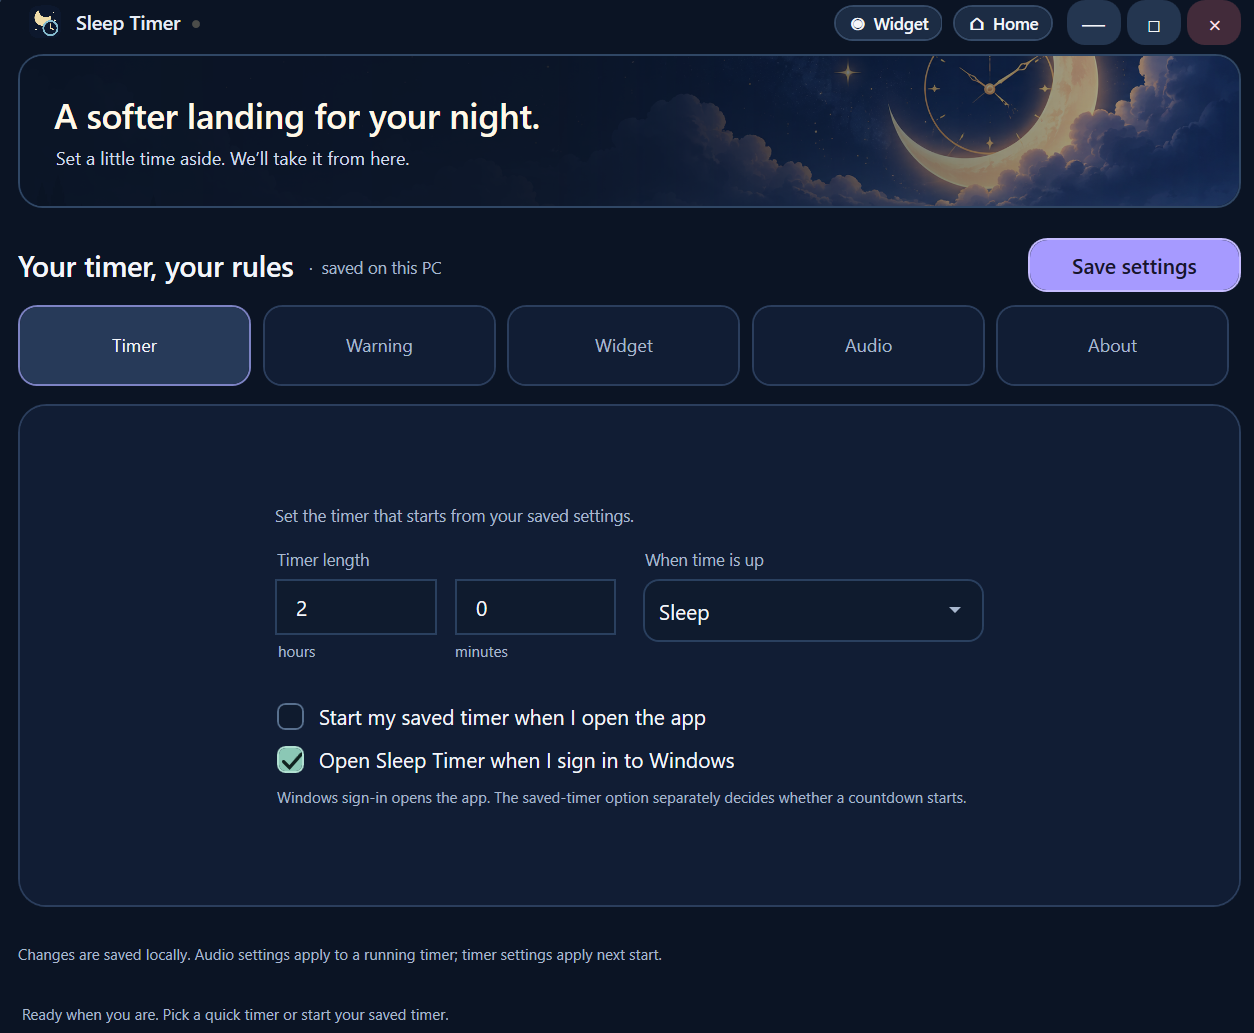
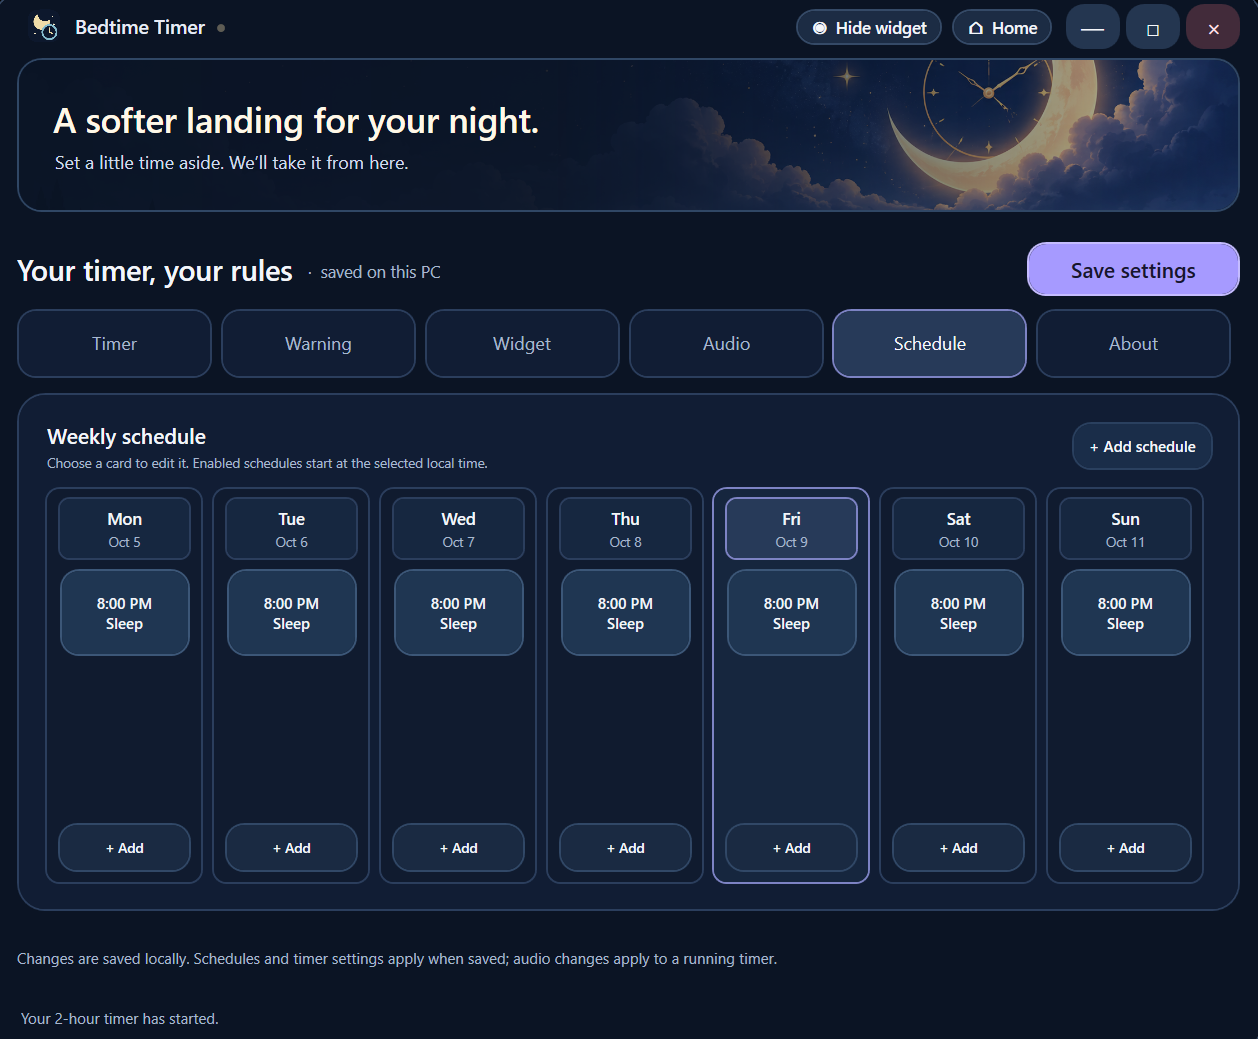
Rebrand app as Bedtime Timer

diff --git a/src/SleepTimer.App/MainWindow.xaml b/src/SleepTimer.App/MainWindow.xaml
@@ -2,7 +2,7 @@
         xmlns="http://schemas.microsoft.com/winfx/2006/xaml/presentation"
         xmlns:x="http://schemas.microsoft.com/winfx/2006/xaml"
         xmlns:shell="clr-namespace:System.Windows.Shell;assembly=PresentationFramework"
-        Title="Sleep Timer" Width="860" Height="720" MinWidth="760" MinHeight="640"
+        Title="Bedtime Timer" Width="860" Height="720" MinWidth="760" MinHeight="640"
         WindowStyle="None" ResizeMode="CanResize" Background="Transparent" Foreground="{StaticResource BrightText}"
         FontFamily="Segoe UI" WindowStartupLocation="CenterScreen" UseLayoutRounding="True"
         Closing="Window_Closing" StateChanged="Window_StateChanged">
@@ -112,7 +112,7 @@
                 </Grid.ColumnDefinitions>
                 <StackPanel Orientation="Horizontal" VerticalAlignment="Center" Margin="7,0,0,0">
                     <Image Source="/SleepTimer;component/Assets/sleep-timer.png" Width="23" Height="23" />
-                    <TextBlock Text="Sleep Timer" FontSize="13" FontWeight="SemiBold" Margin="9,0,0,0"
+                    <TextBlock Text="Bedtime Timer" FontSize="13" FontWeight="SemiBold" Margin="9,0,0,0"
                                VerticalAlignment="Center" Foreground="#E7ECF5" />
                     <Ellipse x:Name="HeaderStar" Width="5" Height="5" Fill="{StaticResource MoonGold}"
                              Margin="8,2,0,0" VerticalAlignment="Center" />
@@ -383,7 +383,7 @@
                                 <CheckBox x:Name="StartOnLaunchCheck" Content="Start my saved timer when I open the app"
                                           ToolTip="Quick timers start a fresh timer when idle or add time to an active timer. The saved duration stays unchanged." />
                                 <CheckBox x:Name="StartAppOnWindowsStartupCheck"
-                                          Content="Open Sleep Timer when I sign in to Windows" Margin="0,10,0,0"
+                                          Content="Open Bedtime Timer when I sign in to Windows" Margin="0,10,0,0"
                                           ToolTip="This opens the app at sign-in. The saved-timer option above separately controls whether a countdown starts." />
                             </StackPanel>
                             <TextBlock Grid.Row="4" Text="Windows sign-in opens the app. The saved-timer option separately decides whether a countdown starts."
@@ -453,7 +453,7 @@
                             </Grid.RowDefinitions>
                             <TextBlock Text="Keep a small countdown near the corner of your screen." FontSize="11"
                                        Foreground="{StaticResource SoftText}" />
-                            <CheckBox x:Name="ShowWidgetOnStartupCheck" Grid.Row="1" Content="Show the desktop widget when Sleep Timer opens"
+                            <CheckBox x:Name="ShowWidgetOnStartupCheck" Grid.Row="1" Content="Show the desktop widget when Bedtime Timer opens"
                                       Margin="0,15,0,0" />
                             <CheckBox x:Name="WidgetTopmostCheck" Grid.Row="2" Content="Keep the widget above other windows"
                                       Margin="0,13,0,0" />
@@ -473,7 +473,7 @@
                                                FontSize="9" Foreground="{StaticResource SoftText}" Margin="1,2,0,0" />
                                 </StackPanel>
                                 <Border Grid.Column="1" Background="#182941" CornerRadius="12" Padding="13,10">
-                            <TextBlock Text="Click anywhere on the tiny pill to open Sleep Timer. Shift-click-drag to move it; resize from the corner."
+                            <TextBlock Text="Click anywhere on the tiny pill to open Bedtime Timer. Shift-click-drag to move it; resize from the corner."
                                                FontSize="10" Foreground="{StaticResource SoftText}" TextWrapping="Wrap" />
                                 </Border>
                             </Grid>
@@ -588,21 +588,23 @@
                                     <Image Source="/Assets/sleep-timer.png" Stretch="Uniform" />
                                 </Border>
                                 <StackPanel Margin="16,0,0,0" VerticalAlignment="Center">
-                                    <TextBlock Text="About me" FontSize="18" FontWeight="SemiBold"
+                                    <TextBlock Text="About Bedtime Timer" FontSize="18" FontWeight="SemiBold"
                                                Foreground="{StaticResource BrightText}" />
-                                    <TextBlock Text="Sleep Timer · by Firefly" FontSize="11"
+                                    <TextBlock Text="Bedtime Timer · by Sparkfly" FontSize="11"
                                                Foreground="{StaticResource MoonGold}" Margin="0,4,0,0" />
                                 </StackPanel>
                             </StackPanel>
-                            <TextBlock Grid.Row="1" Text="I built Sleep Timer as a small, customizable Windows countdown with optional sleep music and gentle timer-end actions. Find the source, follow updates, or report an issue on GitHub."
+                            <TextBlock Grid.Row="1" Text="Bedtime Timer is free and made by Sparkfly. If it helps you wind down, you can leave an optional tip to support ongoing development. Explore more projects or visit the source on GitHub."
                                        FontSize="12" Foreground="{StaticResource SoftText}" TextWrapping="Wrap"
                                        Margin="1,18,12,0" MaxWidth="520" HorizontalAlignment="Left" />
                             <StackPanel Grid.Row="2" Orientation="Horizontal" VerticalAlignment="Top" Margin="0,20,0,0">
-                                <Button Content="View Sleep Timer on GitHub" MinHeight="36" Padding="13,6"
+                                <Button Content="Leave an optional tip" MinHeight="36" Padding="13,6"
                                         Background="{StaticResource AccentViolet}" BorderBrush="#C5BCFF"
-                                        Foreground="#17152D" Click="OpenGitHubButton_Click" />
-                                <Button Content="More projects on Sparkfly" MinHeight="36" Padding="13,6"
+                                        Foreground="#17152D" Click="OpenDonationButton_Click" />
+                                <Button Content="More Sparkfly projects" MinHeight="36" Padding="13,6"
                                         Margin="10,0,0,0" Click="OpenSparkflyButton_Click" />
+                                <Button Content="View source on GitHub" MinHeight="36" Padding="13,6"
+                                        Margin="10,0,0,0" Click="OpenGitHubButton_Click" />
                             </StackPanel>
                         </Grid>
                     </TabItem>

diff --git a/src/SleepTimer.App/DesktopWidgetWindow.xaml b/src/SleepTimer.App/DesktopWidgetWindow.xaml
@@ -2,7 +2,7 @@
         xmlns="http://schemas.microsoft.com/winfx/2006/xaml/presentation"
         xmlns:x="http://schemas.microsoft.com/winfx/2006/xaml"
         xmlns:shell="clr-namespace:System.Windows.Shell;assembly=PresentationFramework"
-        Title="Sleep Timer Widget" Width="164" Height="60" MinWidth="150" MinHeight="56"
+        Title="Bedtime Timer Widget" Width="164" Height="60" MinWidth="150" MinHeight="56"
         Topmost="True" ShowInTaskbar="False" WindowStyle="None" ResizeMode="CanResize"
         AllowsTransparency="True" Background="Transparent" FontFamily="Segoe UI"
         Foreground="{StaticResource BrightText}" WindowStartupLocation="Manual"
@@ -35,7 +35,7 @@
             <Grid x:Name="WidgetClickSurface" Background="Transparent"
                   LostMouseCapture="Widget_ClickOrDrag_LostMouseCapture"
                   Panel.ZIndex="2"
-                  ToolTip="Click to open Sleep Timer · drag to move · resize from the corner">
+                  ToolTip="Click to open Bedtime Timer · drag to move · resize from the corner">
                 <Grid HorizontalAlignment="Center" VerticalAlignment="Center" IsHitTestVisible="False">
                     <!-- Dark offset copies create a crisp outline around the time over the changing widget background. -->
                     <TextBlock Text="{Binding Text, ElementName=WidgetTimeText}" FontSize="25" FontWeight="Bold"

diff --git a/src/SleepTimer.App/PromptWindow.xaml b/src/SleepTimer.App/PromptWindow.xaml
@@ -2,7 +2,7 @@
         xmlns="http://schemas.microsoft.com/winfx/2006/xaml/presentation"
         xmlns:x="http://schemas.microsoft.com/winfx/2006/xaml"
         xmlns:shell="clr-namespace:System.Windows.Shell;assembly=PresentationFramework"
-        Title="Sleep Timer" Width="760" Height="620" Topmost="True" ShowInTaskbar="False"
+        Title="Bedtime Timer" Width="760" Height="620" Topmost="True" ShowInTaskbar="False"
         WindowStyle="None" ResizeMode="NoResize" AllowsTransparency="True" Background="Transparent"
         WindowStartupLocation="CenterScreen" Foreground="{StaticResource BrightText}" FontFamily="Segoe UI"
         Closing="Window_Closing" KeyDown="Window_KeyDown">
@@ -71,7 +71,7 @@
                         shell:WindowChrome.IsHitTestVisibleInChrome="True" />
                 <StackPanel Orientation="Horizontal" VerticalAlignment="Center">
                     <Image Source="/SleepTimer;component/Assets/sleep-timer.png" Width="20" Height="20" />
-                    <TextBlock x:Name="PromptTitleText" Text="Sleep Timer · Warning" FontSize="12" FontWeight="SemiBold"
+                    <TextBlock x:Name="PromptTitleText" Text="Bedtime Timer · Warning" FontSize="12" FontWeight="SemiBold"
                                Margin="8,0,0,0" VerticalAlignment="Center" Foreground="#E7ECF5" />
                 </StackPanel>
             </DockPanel>

diff --git a/src/SleepTimer.App/TimerConfirmationWindow.xaml b/src/SleepTimer.App/TimerConfirmationWindow.xaml
@@ -38,7 +38,7 @@
                     <Image Source="/SleepTimer;component/Assets/sleep-timer.png" Width="28" Height="28" />
                     <StackPanel Margin="11,0,0,0" VerticalAlignment="Center">
                         <TextBlock x:Name="DialogTitleText" Text="A fresh start" FontSize="13" FontWeight="SemiBold" />
-                        <TextBlock Text="SLEEP TIMER" FontSize="8" FontWeight="Bold" Foreground="{StaticResource MoonGold}"
+                        <TextBlock Text="BEDTIME TIMER" FontSize="8" FontWeight="Bold" Foreground="{StaticResource MoonGold}"
                                    Margin="0,2,0,0" />
                     </StackPanel>
                 </StackPanel>

diff --git a/src/SleepTimer.App/TrayController.cs b/src/SleepTimer.App/TrayController.cs
@@ -15,7 +15,7 @@ internal sealed class TrayController : IDisposable
     public TrayController(Action show, Action cancel, Action restart, Action settings, Action exit, Action toggleWidget)
     {
         var menu = new ContextMenuStrip();
-        menu.Items.Add("Show Sleep Timer", null, (_, _) => show());
+        menu.Items.Add("Show Bedtime Timer", null, (_, _) => show());
         _widgetItem = new ToolStripMenuItem("Show desktop widget", null, (_, _) => toggleWidget());
         menu.Items.Add(_widgetItem);
         _restartItem = new ToolStripMenuItem("Restart timer", null, (_, _) => restart());
@@ -33,12 +33,12 @@ internal sealed class TrayController : IDisposable
         _icon = new NotifyIcon
         {
             Icon = icon,
-            Text = "Sleep Timer",
+            Text = "Bedtime Timer",
             ContextMenuStrip = menu,
             Visible = true
         };
         _icon.DoubleClick += (_, _) => show();
-        _icon.BalloonTipTitle = "Sleep Timer";
+        _icon.BalloonTipTitle = "Bedtime Timer";
     }
 
     public void Update(TimerSnapshot snapshot)
@@ -47,8 +47,8 @@ internal sealed class TrayController : IDisposable
         _cancelItem.Enabled = active;
         _restartItem.Enabled = active;
         _icon.Text = active
-            ? $"Sleep Timer · {FormatRemaining(snapshot.Remaining)}"
-            : "Sleep Timer · idle";
+            ? $"Bedtime Timer · {FormatRemaining(snapshot.Remaining)}"
+            : "Bedtime Timer · idle";
     }
 
     public void SetWidgetVisible(bool visible) => _widgetItem.Text = visible ? "Hide desktop widget" : "Show desktop widget";

diff --git a/src/SleepTimer.App/ActionPresentation.cs b/src/SleepTimer.App/ActionPresentation.cs
@@ -44,7 +44,7 @@ internal static class ActionPresentation
         PowerAction.ShutDown => "Your computer will shut down soon. Snooze for more time, or cancel the timer to stop it.",
         PowerAction.Restart => "Your computer will restart soon. Snooze for more time, or cancel the timer to stop it.",
         PowerAction.Lock => "Windows will lock soon. Snooze for more time, or cancel the timer to prevent it.",
-        PowerAction.CloseApp => $"Sleep Timer will ask {DisplayProcessName(request.CloseAppProcessName)} to close soon. Snooze for more time, or cancel the timer to keep it open.",
+        PowerAction.CloseApp => $"Bedtime Timer will ask {DisplayProcessName(request.CloseAppProcessName)} to close soon. Snooze for more time, or cancel the timer to keep it open.",
         PowerAction.RunProgram => $"{DisplayProgramName(request.CustomProgramPath)} will start soon. Snooze for more time, or cancel the timer to stop it.",
         _ => "Your timer is almost up. Snooze for more time, or cancel the timer to stop the selected action."
     };

diff --git a/tools/mix_reference_audio.py b/tools/mix_reference_audio.py
@@ -1,4 +1,4 @@
-"""Create Sleep Timer nature tracks from three licensed Pixabay recordings.
+"""Create Bedtime Timer nature tracks from three licensed Pixabay recordings.
 
 Put the downloaded source MP3s in tools/audio-source/ (that folder is ignored by
 Git). FFmpeg equalizes and levels the recordings, blends an authored stereo chord
@@ -92,8 +92,8 @@ def mix_track(
             "-filter_complex", filter_graph,
             "-map", "[out]",
             "-map_metadata", "-1",
-            "-metadata", f"title={title} - Sleep Timer mix",
-            "-metadata", f"artist=Sleep Timer, with source audio by {source_credit}",
+            "-metadata", f"title={title} - Bedtime Timer mix",
+            "-metadata", f"artist=Sparkfly, with source audio by {source_credit}",
             "-c:a", "libmp3lame",
             "-b:a", "192k",
             "-ar", str(SAMPLE_RATE),

diff --git a/src/SleepTimer.App/PowerActions.cs b/src/SleepTimer.App/PowerActions.cs
@@ -114,7 +114,7 @@ internal static class PowerActions
                 Thread.Sleep(200);
 
             if (closeRequested.Any(HasOpenWindow))
-                throw new InvalidOperationException($"'{processName}' still has an open window after {GracefulCloseTimeout.TotalSeconds:0} seconds. Sleep Timer did not force-close it; save your work and close it yourself if needed.");
+                throw new InvalidOperationException($"'{processName}' still has an open window after {GracefulCloseTimeout.TotalSeconds:0} seconds. Bedtime Timer did not force-close it; save your work and close it yourself if needed.");
 
             return $"'{processName}' closed its window gracefully.";
         }

diff --git a/src/SleepTimer.App/PromptWindow.xaml.cs b/src/SleepTimer.App/PromptWindow.xaml.cs
@@ -38,8 +38,8 @@ public partial class PromptWindow : Window
         _compactFloatingPrompt = !_fullScreenPrompt;
         if (_isPreview)
         {
-            Title = "Sleep Timer · Warning Preview";
-            PromptTitleText.Text = "Sleep Timer · Warning Preview";
+            Title = "Bedtime Timer · Warning Preview";
+            PromptTitleText.Text = "Bedtime Timer · Warning Preview";
             PromptTitleCloseButton.ToolTip = "Close preview";
             FooterNotice.Text = "PREVIEW ONLY · no timer or action will run.";
             FooterNotice.Foreground = (System.Windows.Media.Brush)System.Windows.Application.Current.FindResource("MoonGold");

diff --git a/src/SleepTimer.App/MainWindow.xaml.cs b/src/SleepTimer.App/MainWindow.xaml.cs
@@ -228,6 +228,9 @@ public partial class MainWindow : Window
     private void OpenGitHubButton_Click(object sender, RoutedEventArgs e)
         => OpenExternalUrl("https://github.com/Firefly3002/sleep-timer");
 
+    private void OpenDonationButton_Click(object sender, RoutedEventArgs e)
+        => OpenExternalUrl("https://sparkfly.online/donate");
+
     private void OpenSparkflyButton_Click(object sender, RoutedEventArgs e)
         => OpenExternalUrl("https://sparkfly.online/projects");
 

diff --git a/src/SleepTimer.App/WindowsStartupRegistration.cs b/src/SleepTimer.App/WindowsStartupRegistration.cs
@@ -33,6 +33,6 @@ internal static class WindowsStartupRegistration
             && string.Equals(Path.GetExtension(processPath), ".exe", StringComparison.OrdinalIgnoreCase))
             return processPath;
 
-        throw new InvalidOperationException("Could not find Sleep Timer’s Windows executable to add it to sign-in startup.");
+        throw new InvalidOperationException("Could not find Bedtime Timer’s Windows executable to add it to sign-in startup.");
     }
 }

diff --git a/src/SleepTimer.App/App.xaml.cs b/src/SleepTimer.App/App.xaml.cs
@@ -278,7 +278,7 @@ public partial class App : System.Windows.Application
         {
             if (!ConfirmAction(
                 "Stop timer and exit?",
-                "Your timer only runs while Sleep Timer is open.",
+                "Your timer only runs while Bedtime Timer is open.",
                 "Exiting now will cancel the active timer and its upcoming power action.",
                 "Exit and stop")) return;
             _audio?.CancelTimer();
